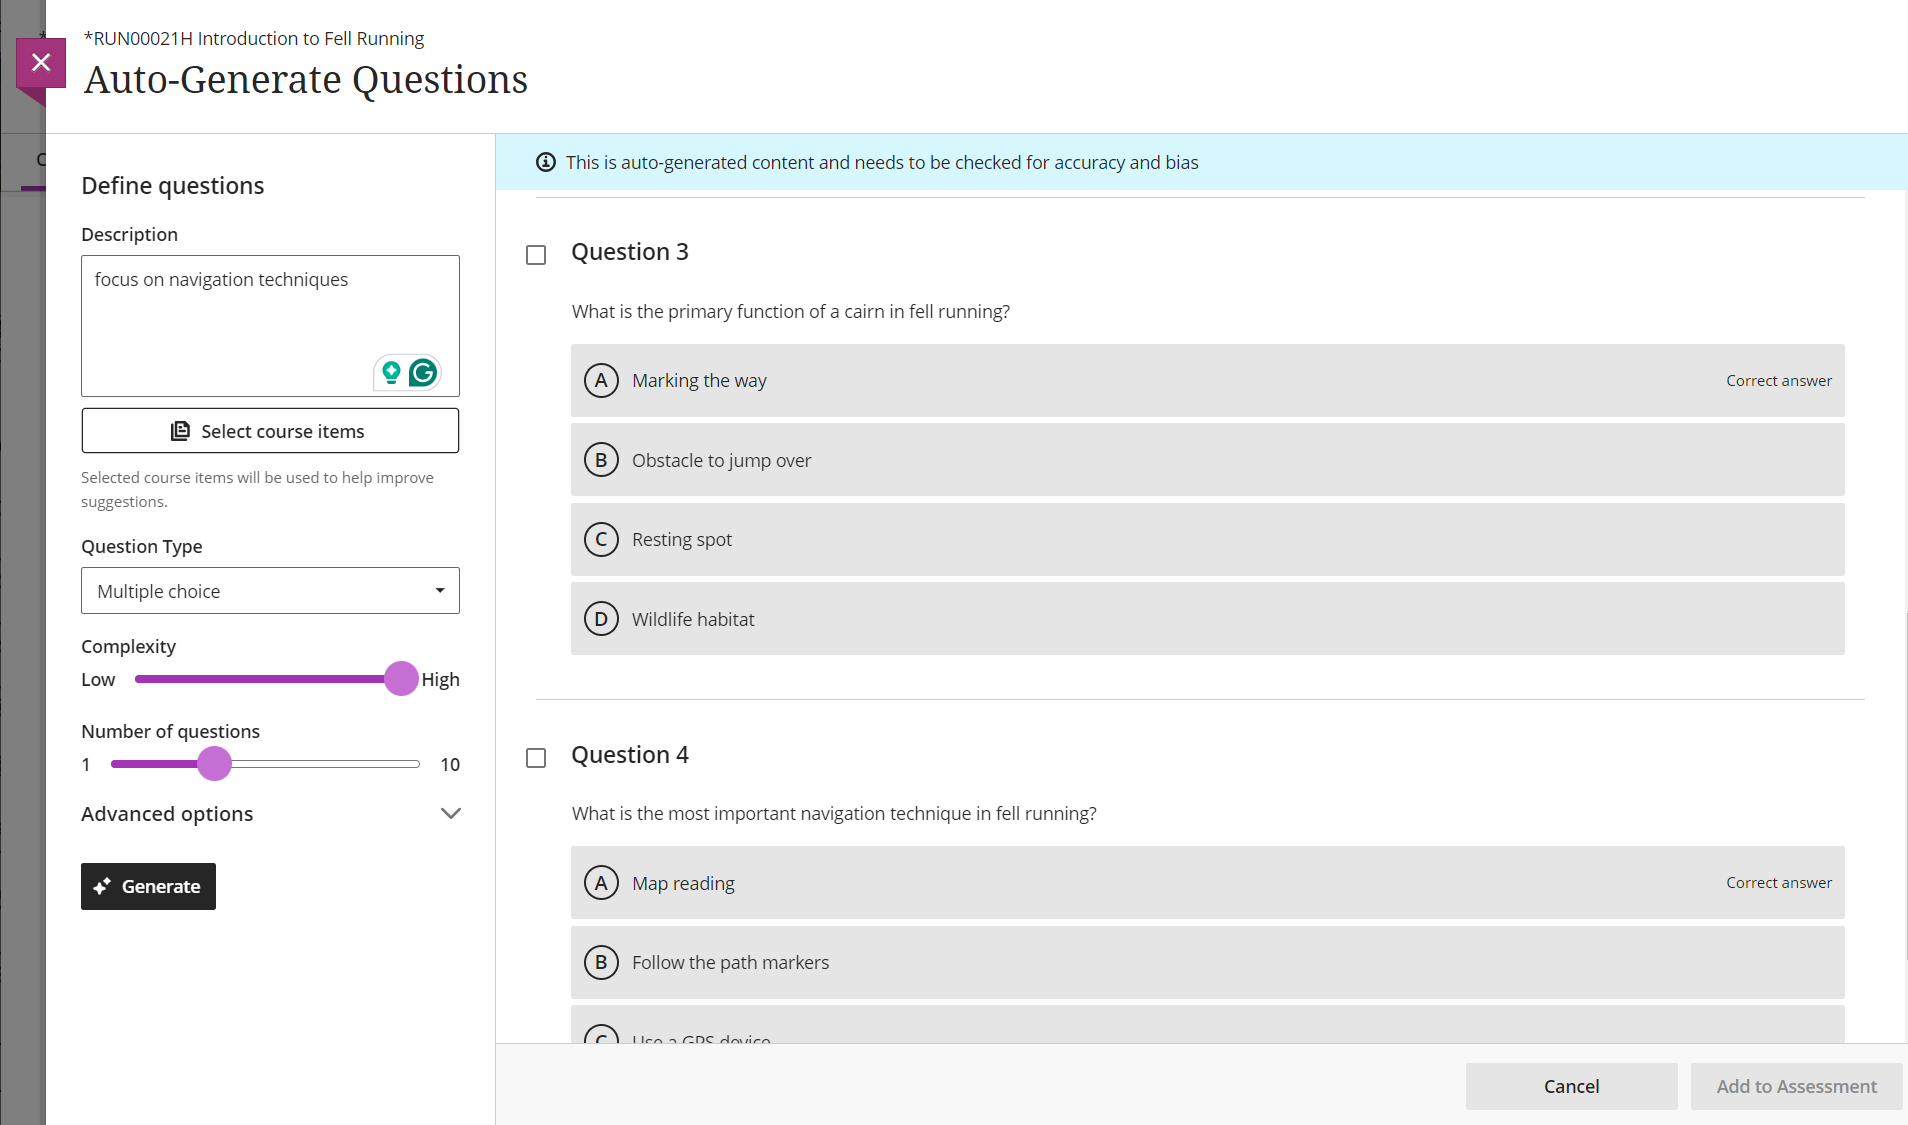
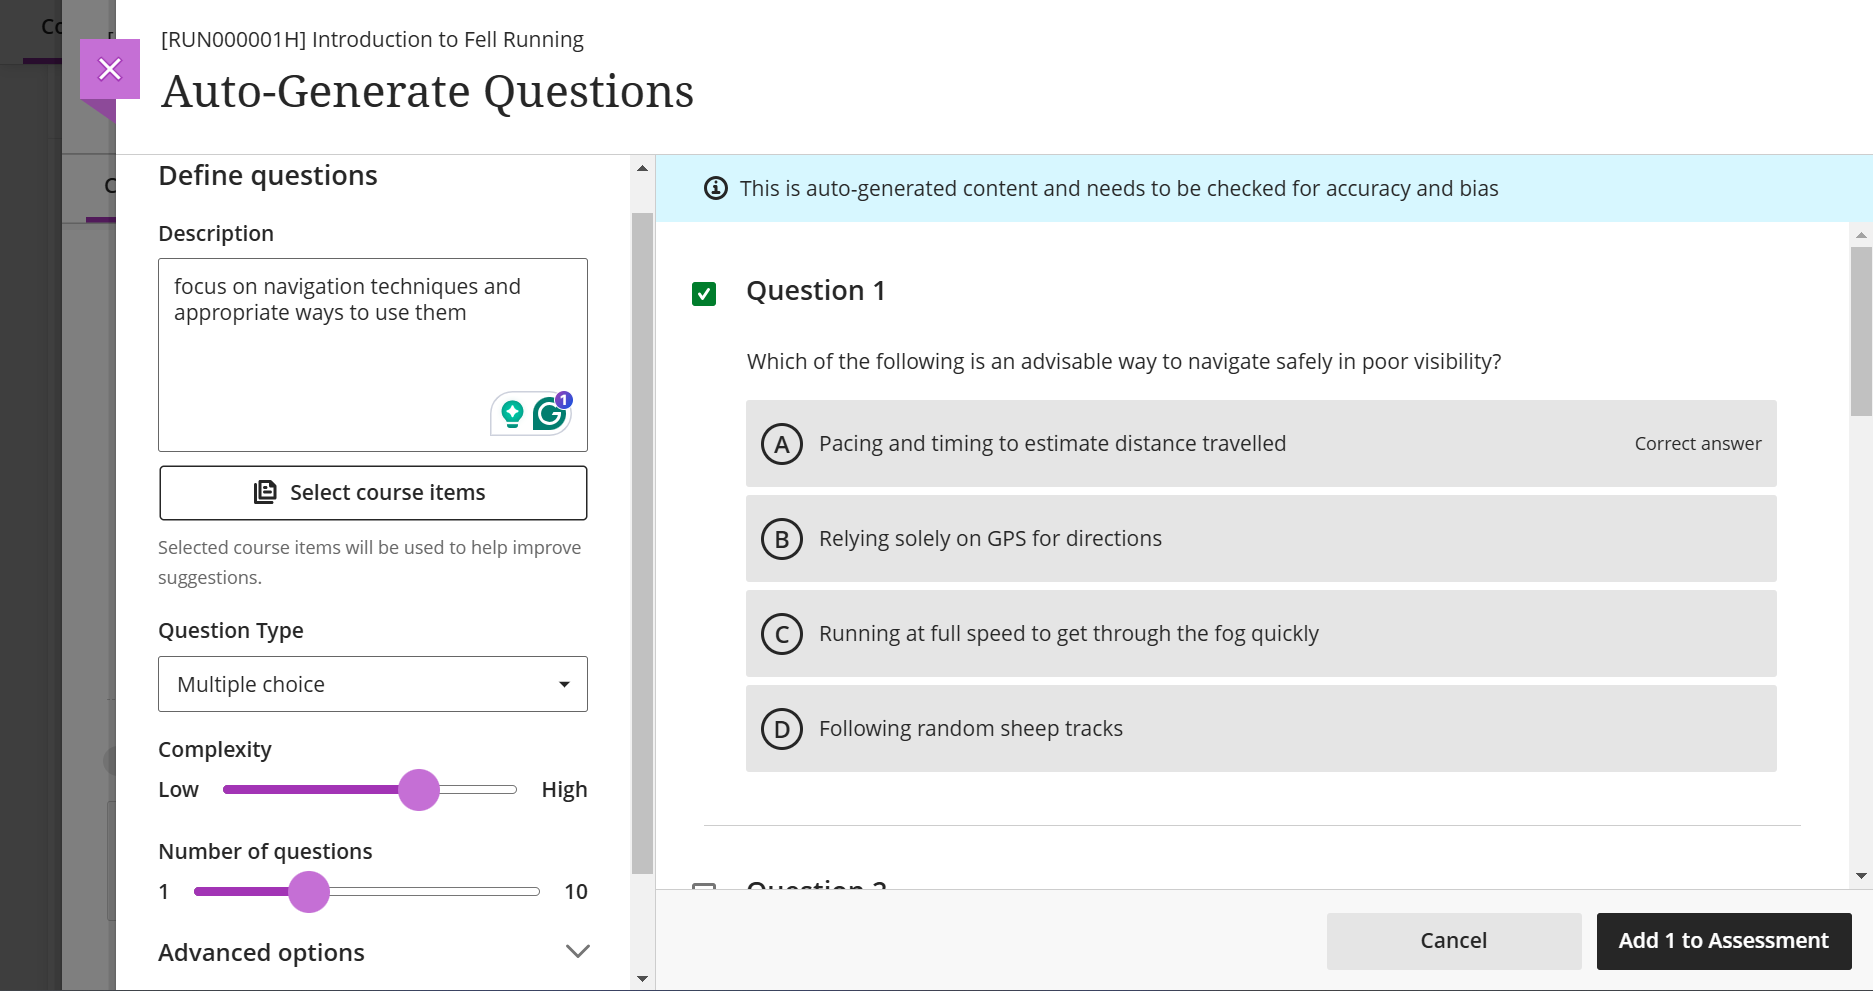
AIDA - test questions

diff --git a/docs/ultra/ai-da.md b/docs/ultra/ai-da.md
@@ -15,6 +15,8 @@ Ultra's AI-DA tools are powered by Microsoft's Azure OpenAI Service, and underpi
 
 magic icon - can see on many page types
 
+don't like what you got? Generate again (consider making description more specific)
+
 ### Getting better output
 
 !!! Warning
@@ -62,14 +64,13 @@ Prompts can be aligned to **cognitive levels** based on Bloom's Taxonomy:
 - Analyse
 - Evaluate
 - Create
-- or select *Inspire me!* for a mix of levels (default)
 
 Steps to generate task prompts:
 
 1. Create a new Discussion, Journal or Assignment, or open an existing one.
 2. Click the **magic AI icon** in the top right. On a larger screen you'll also see **Auto generate [item name]**.
 3. Enter a **Description** and/or **Select course items** to help generate more relevant content.
-4. Choose a **Desired cognitive level**.
+4. Select the **Desired cognitive level**, or choose *Inspire me!* for a mix of levels.
 5. Adapt other settings to your needs, then click **Generate**
 6. Review the generated content and select which prompt to keep. If you want to keep more than one prompt, copy/paste it into another document.
 7. Click **Add to Course**.
@@ -97,18 +98,59 @@ Steps to generate task prompts:
  
 ### Test questions
 
-- Test
-- Question Bank - can be used in multiple tests, or use to draw a random set of questions from
+AI-DA can generate questions within a [Test](../ultra/test.md) or Question Bank (a set of questions that can be used to draw a random subset from and/or in multiple Tests). This could be helpful to efficiently create informal knowledge checks and practice quizzes to supplement weekly module content.
+
+!!! Abstract "Using the question generator effectively"
+
+    If course items are selected to provide context for questions, the tool will draw from content in the Document, file etc. For example, questions may be created based on proceduaral instructions within an item. It may be more effective to provide a detailed description of the desired content area.
+
+    All questions **must** be checked very carefully to ensure they are correct.
+
+There are a range of question types available:
+
+- Essay (free text response)
+- Fill in the Blank
+- Matching
+- Multiple Choice
+- True/False
+
+Steps to generate questions in a Test or Question Bank
+
+1. Create a Test or open an existing Test or Question Bank. To generate a new Question Bank, select **Auto generate** and skip step 2.
+2. Click the **plus icon** where you would like the question(s) to appear, and select **Auto-generate question**.
+3. Define the questions:
+    - Enter a **Description** and/or **Select course items** to help generate more relevant questions.
+    - Select the **Question type** to generate. *Inspire me!* will generate a mix of question types.
+    - Set the **Complexity** level and choose how many questions to create.
+4. Click **Generate**.
+5. Review the questions. Select which question(s) to include, or repeat steps 3 and 4 togenerate new questions.
+6. Click **Add to Assessment**.
+7. Carefully check the questions for accuracy and appropriacy and edit as needed.  
+
+![Test question interface: described below](images/aida-test-question.png)
 
 ??? Abstract "Test questions: interface and examples of generated content"
 
-    **Description:** 
+    **Description:** focus on navigation techniques and appropriate ways to use them
 
-    **Select course items**:
+    **Select course items**: none selected
+
+    **Question type**: Multiple choice
 
     **Complexity:** level 7/10
 
+    **Number of question**: 4 (maximum 10)
+
     **Content generated:**
+
+    *Question 1.* Which of the following is an advisable way to navigate safely in poor visibility?
+
+    - A. Pacing and timing to estimate distance travelled [Correct answer]
+    - B. Relying solely on GPS for directions
+    - C. Running at full speed to get through the fog quickly
+    - D. Following random sheep tracks
+
+    Further questions are not visible on this screen, scroll to reveal.
 
 ### Learning Modules
 
@@ -118,7 +160,7 @@ Your departmental template has a pre-built structure, so **in most cases you wil
 
 !!! Tip "Using the Learning Module generator effectively"
 
-    Content is generated based on the site name and the context provided, so providing a clear description and/or selecting relevant document(s) will help generate more relevant output.
+    Learning Module content is generated based on the site name and the context provided, so providing a clear description and/or selecting relevant document(s) will help generate more relevant output.
 
 Steps to generate Learning Modules:
 
